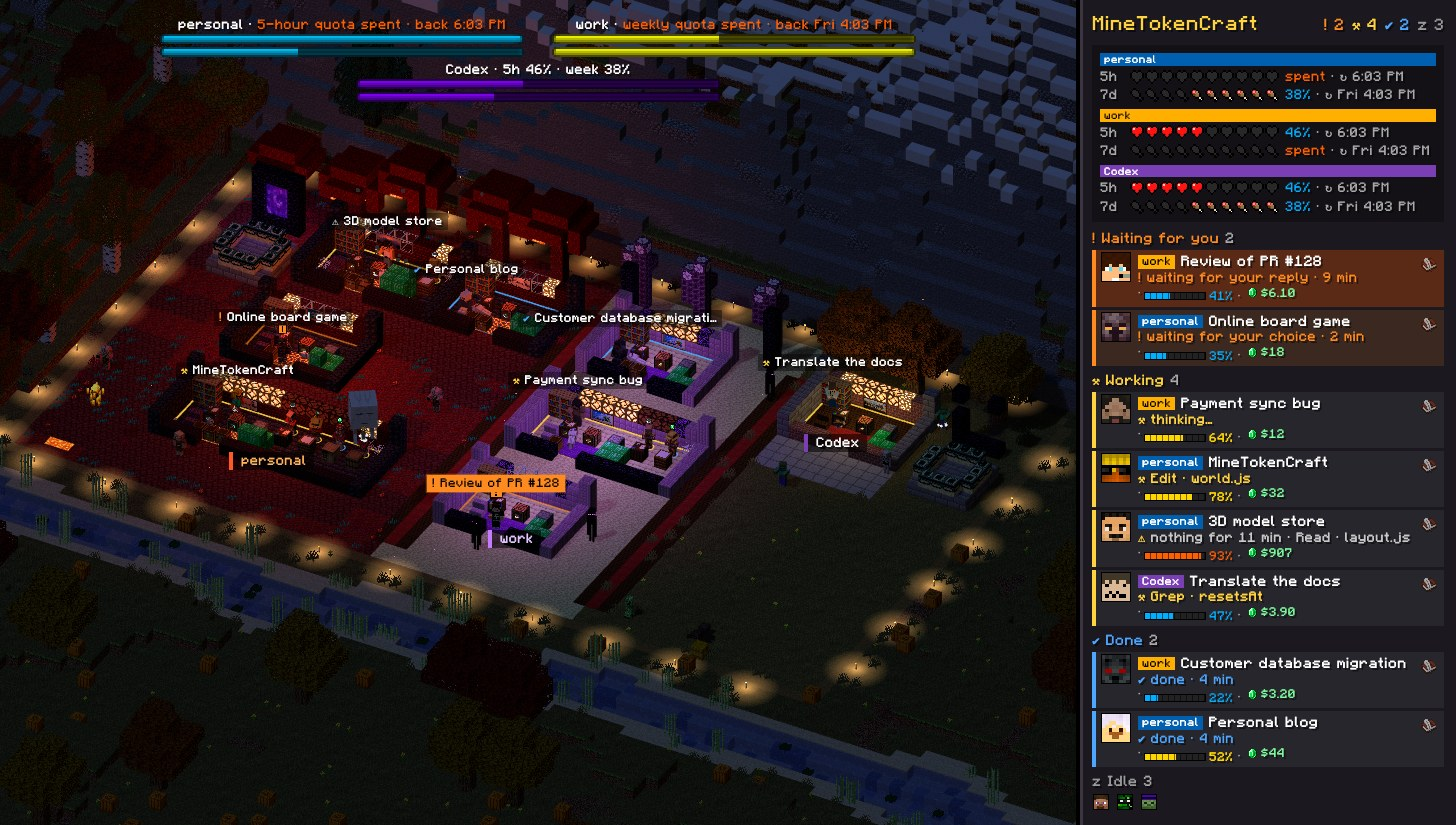
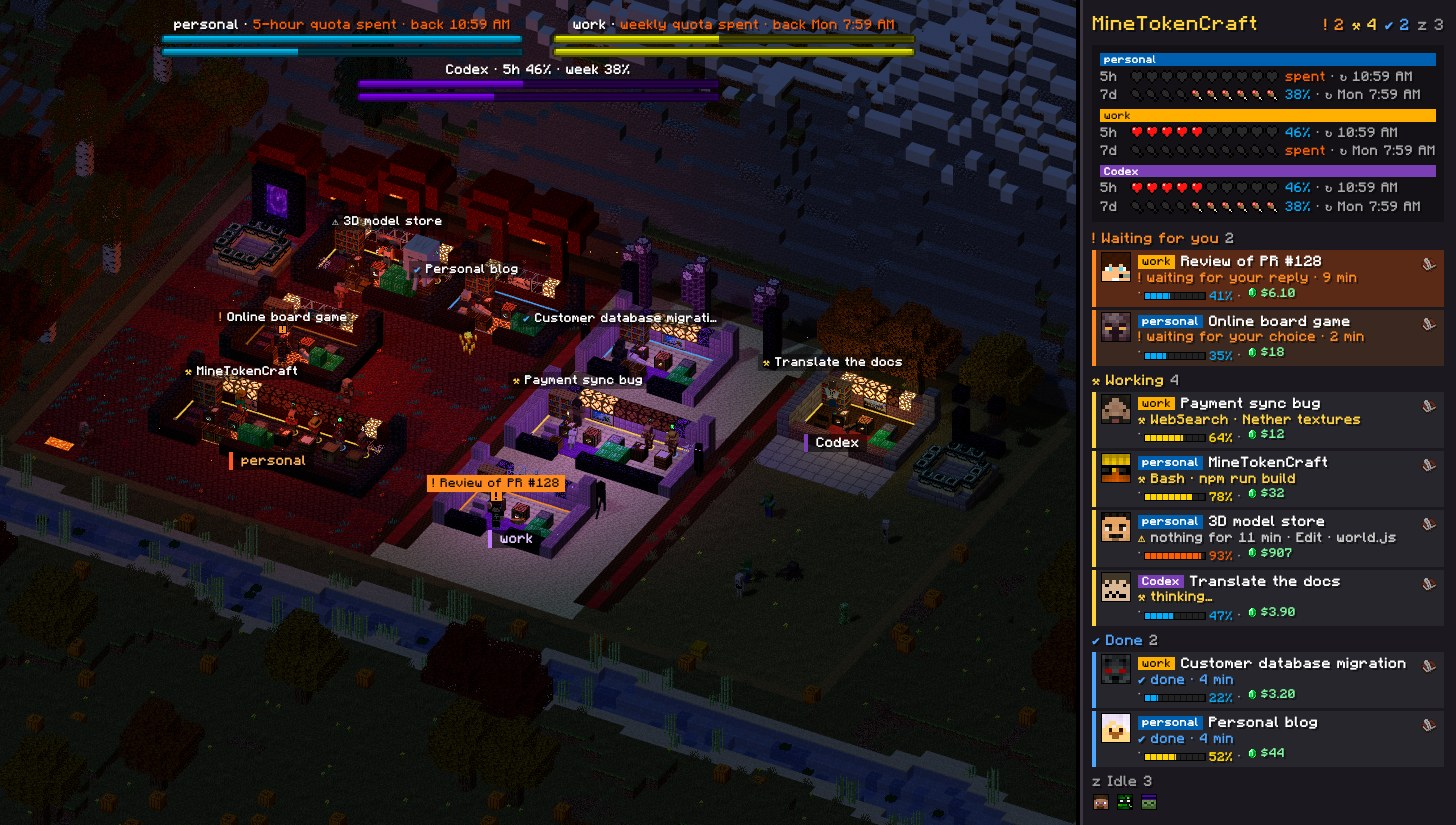
feat: remove the torches along the path and the falling rain
A rainy day keeps its grey sky, a storm its lightning, and the rainbow
still shows once the rain stops.

diff --git a/public/js/environment.js b/public/js/environment.js
@@ -1,6 +1,6 @@
 import * as THREE from 'three';
 import { windUniforms } from './wind.js';
-import { REDUCED_PARTICLES, reducedMotion } from './motion.js';
+import { reducedMotion } from './motion.js';
 import { TEXTURE_ROOT } from './textures.js';
 
 // Sky, light, weather and seasons: everything that changes with the real time and the weather outside.
@@ -28,8 +28,6 @@ const HAZES = {
 };
 // Seconds for the haze to follow a change of weather.
 const HAZE_EASE = 0.4;
-// Share of the raindrops that splash where they land (on the ground around the house).
-const SPLASH_SHARE = 0.15;
 // Rainbow after rain: half a ring standing just behind the house, facing the camera, red outside and violet inside.
 // Its size follows the house (radius over its width) and its feet sink into the ground. The view shows hardly any
 // sky, so it is layered: drawn over the landscape, under the house (World draws the house after it).
@@ -41,9 +39,7 @@ const RAINBOW_AFTER_MS = 20 * 60 * 1000;
 const OVERCAST = { clear: 1, cloudy: 0.8, rain: 0.65, storm: 0.5, snow: 0.75, fog: 0.7 };
 // Night stays readable: the moon gives enough light to tell rooms and creatures apart.
 const SUN = { dayIntensity: 0.9, moonIntensity: 0.38, sky: 0.58, nightSky: 0.28 };
-const RAIN_DROPS = 1600;
 const SNOW_FLAKES = 1100;
-const RAIN_SPEED = 16;
 const SNOW_SPEED = 1.3;
 const SKY_HEIGHT = 14;
 const LIGHTNING_MIN_S = 5;
@@ -92,20 +88,8 @@ export class Environment {
     this.stars = sky.querySelector('.sky__stars');
     this.sunDisc = sky.querySelector('.sky__sun');
     this.moonDisc = sky.querySelector('.sky__moon');
-    this.rain = this.makeRain();
     this.snow = this.makeSnow();
-    scene.add(this.rain, this.snow);
-  }
-
-  makeRain() {
-    const positions = new Float32Array(RAIN_DROPS * 6);
-    const geometry = new THREE.BufferGeometry();
-    geometry.setAttribute('position', new THREE.BufferAttribute(positions, 3));
-    const rain = new THREE.LineSegments(geometry, new THREE.LineBasicMaterial({ color: '#a9c4ff', transparent: true, opacity: 0.55 }));
-    rain.frustumCulled = false;
-    rain.visible = false;
-    rain.userData.seeded = false;
-    return rain;
+    scene.add(this.snow);
   }
 
   /**
@@ -168,40 +152,6 @@ export class Environment {
       Math.random() * SKY_HEIGHT,
       bounds.z0 + Math.random() * (bounds.z1 - bounds.z0 + 1),
     ];
-  }
-
-  updateRain(dt, bounds, wind) {
-    const positions = this.rain.geometry.attributes.position.array;
-    const slant = wind * 0.25;
-    for (let i = 0; i < RAIN_DROPS; i++) {
-      const at = i * 6;
-      if (!this.rain.userData.seeded || positions[at + 1] < 0) {
-        if (this.rain.userData.seeded) this.splash(positions[at], positions[at + 2], bounds);
-        const [x, y, z] = this.randomSpot(bounds);
-        positions[at] = x;
-        positions[at + 1] = this.rain.userData.seeded ? SKY_HEIGHT : y;
-        positions[at + 2] = z;
-      } else {
-        positions[at + 1] -= RAIN_SPEED * dt;
-        positions[at] += RAIN_SPEED * slant * dt;
-      }
-      // A drop = a 0.6-block streak, slanted by the wind.
-      positions[at + 3] = positions[at] - slant * 0.6;
-      positions[at + 4] = positions[at + 1] + 0.6;
-      positions[at + 5] = positions[at + 2];
-    }
-    this.rain.userData.seeded = true;
-    this.rain.geometry.attributes.position.needsUpdate = true;
-  }
-
-  /**
-   * A raindrop reaching the ground around the house splashes; further away, nobody would see it.
-   */
-  splash(x, z, bounds) {
-    const near = this.splashArea;
-    if (!this.particles || !near || x < near.x0 || x > near.x1 + 1 || z < near.z0 || z > near.z1 + 1) return;
-    if (Math.random() > SPLASH_SHARE * (reducedMotion() ? REDUCED_PARTICLES : 1)) return;
-    this.particles.emit('splash', { x, y: 0.08, z }, { spread: 0, velocity: [0, 0.6, 0], gravity: 4, life: 0.28, size: 0.22 });
   }
 
   updateSnow(dt, bounds, wind, time) {
@@ -337,13 +287,9 @@ export class Environment {
     this.updateRainbow(dt, conditions, layout, now);
     const direction = this.updateLights(conditions);
     this.updateLightning(dt, conditions);
-    const precipitation = conditions.condition === 'snow' ? 'snow' : ['rain', 'storm'].includes(conditions.condition) ? 'rain' : null;
-    this.rain.visible = precipitation === 'rain';
-    this.snow.visible = precipitation === 'snow';
+    // No rain falls: a rainy sky stays grey, only snow comes down.
+    this.snow.visible = conditions.condition === 'snow';
     if (layout) {
-      this.particles = particles;
-      this.splashArea = layout.bounds;
-      if (this.rain.visible) this.updateRain(dt, layout.weatherArea ?? layout.bounds, conditions.wind);
       if (this.snow.visible) this.updateSnow(dt, layout.weatherArea ?? layout.bounds, conditions.wind, now);
       this.updateFalling(dt, conditions, layout.bounds, particles);
     }

diff --git a/public/js/world.js b/public/js/world.js
@@ -146,14 +146,9 @@ const PLANTS = {
   fern: ['fern', GRASS_TINT],
   sugarCane: 'sugar_cane',
   berryBush: 'sweet_berry_bush_stage3',
-  torch: 'torch',
 };
 // Draw order of the house: after the landscape and the rainbow (environment.js), so it stays in front of them.
 const HOUSE_ORDER = 2;
-// Plants that give their own light: unlit, never hazed.
-const GLOWING_PLANTS = new Set(['torch']);
-// Pool of light around each torch, on the ground, as night falls.
-const TORCH_GLOW = { size: 5, color: '#ffb35c', height: 0.03, base: 0.25 };
 // Wind sway: grass and flowers move noticeably, foliage barely.
 const WIND_SETTINGS = { plant: { sway: 0.22, anchor: 0 }, leaves: { sway: 0.05, anchor: -0.5 } };
 const WINDY_PLANTS = new Set(['grass', 'grassAutumn', 'poppy', 'dandelion', 'cornflower', 'daisy', 'allium', 'azureBluet', 'blueOrchid', 'pinkTulip', 'crimsonRoots', 'netherSprouts', 'fern', 'berryBush']);
@@ -320,7 +315,6 @@ class Blocks {
     this.carpets = [];
     this.plants = [];
     this.water = [];
-    this.torches = [];
   }
 
   set(type, x, y, z) {
@@ -363,44 +357,13 @@ class Blocks {
         return instanced(geometry, materials, cells, ({ x, y, z }, m) => m.makeTranslation(x + 0.5, y + 1 / 32, z + 0.5), false);
       }),
       ...[...byKey(this.plants, 'type')].map(([type, cells]) => instanced(cross, material(PLANTS[type], {
-        cutout: true, wind: WINDY_PLANTS.has(type) ? 'plant' : null, glow: GLOWING_PLANTS.has(type), haze: this.haze && !GLOWING_PLANTS.has(type),
+        cutout: true, wind: WINDY_PLANTS.has(type) ? 'plant' : null, haze: this.haze,
       }), cells,
         ({ x, y, z, scale = 1 }, m) => m.makeScale(scale, scale, scale).setPosition(x + 0.5, y, z + 0.5), false)),
       ...(this.water.length ? [instanced(waterQuad, waterMaterial(this.frozen), this.water,
         ({ x, z }, m) => m.makeTranslation(x + 0.5, WATER.level, z + 0.5), false)] : []),
     ];
   }
-}
-
-let glowTexture = null;
-
-/**
- * Warm pools of light on the ground around the torches: one flat quad each, added to what is below, in a single
- * draw call. Cheaper than real lights, which would cost on every pixel of the screen.
- */
-function torchGlow(spots) {
-  if (!glowTexture) {
-    const canvas = document.createElement('canvas');
-    canvas.width = canvas.height = 64;
-    const context = canvas.getContext('2d');
-    const gradient = context.createRadialGradient(32, 32, 0, 32, 32, 32);
-    gradient.addColorStop(0, 'rgba(255, 255, 255, 0.9)');
-    gradient.addColorStop(0.4, 'rgba(255, 255, 255, 0.35)');
-    gradient.addColorStop(1, 'rgba(255, 255, 255, 0)');
-    context.fillStyle = gradient;
-    context.fillRect(0, 0, 64, 64);
-    glowTexture = new THREE.CanvasTexture(canvas);
-  }
-  const material = new THREE.MeshBasicMaterial({
-    map: glowTexture, color: TORCH_GLOW.color, transparent: true, depthWrite: false, blending: THREE.AdditiveBlending, opacity: 0,
-  });
-  const quad = new THREE.PlaneGeometry(TORCH_GLOW.size, TORCH_GLOW.size).rotateX(-Math.PI / 2);
-  const mesh = new THREE.InstancedMesh(quad, material, spots.length);
-  const matrix = new THREE.Matrix4();
-  spots.forEach(({ x, y, z }, index) => mesh.setMatrixAt(index, matrix.makeTranslation(x, y + TORCH_GLOW.height, z)));
-  mesh.visible = false;
-  mesh.renderOrder = 1;
-  return mesh;
 }
 
 // Water texture, whose frames World.animate scrolls through.
@@ -719,9 +682,6 @@ export class World {
     this.signature = null;
     this.rooms = new Map();
     this.portals = new Map();
-    // Torches along the path, for their flames at night.
-    this.torches = [];
-    this.torchGlow = null;
   }
 
   build(layout, season = 'summer', scenery = null) {
@@ -745,14 +705,10 @@ export class World {
     const house = [...blocks.meshes(), extras];
     for (const object of house) object.traverse((child) => (child.renderOrder = HOUSE_ORDER));
     this.group.add(...house);
-    this.torches = [];
-    this.torchGlow = null;
     if (scenery) {
       const land = new Blocks({ castShadow: false, frozen: season === 'winter', haze: true });
       buildTerrain(land, { flat: layout.bounds, ...scenery }, season, SEASON_GROUNDS[season]);
       this.group.add(...land.meshes());
-      this.torches = land.torches;
-      if (land.torches.length) this.group.add(this.torchGlow = torchGlow(land.torches));
     }
     return true;
   }
@@ -827,10 +783,6 @@ export class World {
    */
   setGloom(gloom) {
     this.gloom = gloom;
-    if (this.torchGlow) {
-      this.torchGlow.visible = gloom >= LIGHTS_ON_GLOOM;
-      this.torchGlow.material.opacity = Math.min(1, TORCH_GLOW.base + gloom);
-    }
     this.group.traverse((object) => {
       if (object.isPointLight && object.userData.baseIntensity) this.applyLight(object);
     });

diff --git a/public/js/main.js b/public/js/main.js
@@ -97,8 +97,6 @@ const PET_SPOTS = {
 };
 // A sleeping cat breathes out a "z" every few seconds.
 const PET_ZZZ_S = 2.5;
-// Flames rising from the torches along the path at night, a few a second for all of them.
-const TORCH_FLAMES_PER_S = 3;
 // Ambiance of a Nether zone (rising embers) or End zone (floating portal particles), per second.
 const ZONE_PARTICLES = {
   nether: { type: 'ember', rate: 10, velocity: [0, 0.9, 0], spread: 0.3, life: 2.6, size: 0.12 },
@@ -551,7 +549,7 @@ function aimSun(direction) {
 const LOWEST_GROUND = -3;
 const COVER_MARGIN = 3;
 const CEILING_MARGIN = 3;
-// Rain and snow also fall around the house.
+// Snow also falls around the house.
 const WEATHER_MARGIN = 14;
 
 /**
@@ -710,17 +708,6 @@ function updatePet(record, dt) {
   particles.emit('zzz', { x, y: 0.6, z }, { spread: 0.1, velocity: [0.1, 0.35, 0], life: 1.8, size: 0.14 });
 }
 
-let torchTimer = 0;
-
-function emitTorchFlames(dt) {
-  if (lastGloom < 0.12 || !world.torches.length) return;
-  torchTimer -= dt;
-  if (torchTimer > 0) return;
-  torchTimer = 1 / (TORCH_FLAMES_PER_S * (reducedMotion() ? REDUCED_PARTICLES : 1));
-  const torch = world.torches[Math.floor(Math.random() * world.torches.length)];
-  particles.emit('flame', { x: torch.x, y: torch.y + 0.68, z: torch.z }, { spread: 0.04, velocity: [0, 0.35, 0], life: 0.45, size: 0.1 });
-}
-
 const timer = new THREE.Timer();
 const environment = new Environment(scene, {
   sky: document.getElementById('sky'),
@@ -799,7 +786,6 @@ function renderFrame(time) {
     world.animate(now);
     expireDepartures(now);
     emitZoneParticles(dt);
-    emitTorchFlames(dt);
   });
   timed('environment', () => updateEnvironment(dt));
   timed('particles', () => particles.update(dt));

diff --git a/public/js/terrain.js b/public/js/terrain.js
@@ -31,9 +31,8 @@ const RIVER = {
   deep: -2,
   shallow: -1,
 };
-// The path going around the property, just outside the garden, lined with a torch every few blocks.
+// The path going around the property, just outside the garden.
 const PATH_WIDTH = 1;
-const TORCH_EVERY = 6;
 // Trees on a 5-block grid, at most one per cell, randomly offset within its cell.
 const TREE_GRID = 5;
 // In front and to the right, trees stay far away: closer, they would overlap the house on screen.
@@ -251,12 +250,6 @@ export function buildTerrain(blocks, { flat, cover, ceiling }, season, flora) {
         continue;
       }
       if (steep || surface === 'path') continue;
-      // Torches along the outer edge of the path, on its straight sides.
-      if (top === 0 && !bank && Math.abs(awayFromFlat(x, z) - PATH_WIDTH - 1) < 0.01 && (((x + z) % TORCH_EVERY) + TORCH_EVERY) % TORCH_EVERY === 0) {
-        blocks.plants.push({ type: 'torch', x, y: top, z });
-        blocks.torches.push({ x: x + 0.5, y: top, z: z + 0.5 });
-        continue;
-      }
       // Sugar cane at the water's edge.
       if (bank && !frozen && nextToWater(x, z) && noise(x, z, 67) < 0.3) {
         const height = 1 + Math.floor(noise(x, z, 68) * 3);

diff --git a/public/js/particles.js b/public/js/particles.js
@@ -23,8 +23,6 @@ const SHAPES = {
   damage: { color: '#6b0a0a', pixels: ['........', '.##.##..', '#######.', '#######.', '.#####..', '..###...', '...#....', '........'] },
   crit: { color: '#e8e8e8', pixels: ['...#....', '...#....', '...#....', '###.###.', '...#....', '...#....', '...#....', '........'] },
   xp: { color: '#b6f23a', pixels: ['........', '..###...', '.#####..', '.#####..', '.#####..', '..###...', '........', '........'] },
-  // A raindrop hitting the ground.
-  splash: { color: '#c3d6ff', pixels: ['........', '........', '........', '...#....', '.#...#..', '#..#..#.', '.##.##..', '........'] },
   // Enchanting table runes, flying from the books to the reader.
   glyph: { color: '#d9c8ff', pixels: ['.#####..', '.#...#..', '.#.#.#..', '...#....', '.#.#.#..', '.#...#..', '.#####..', '........'] },
 };

diff --git a/README.fr.md b/README.fr.md
@@ -20,7 +20,7 @@ Qui travaille, qui t'attend, qui a fini, à quel point chaque contexte est rempl
 
 [English](README.md) · Français
 
-<img src="docs/demo.gif" alt="MineTokenCraft en action : des sessions au travail, l'infobulle d'une session qui attend, des comptes sans quota qui partent dans le Nether et l'End, une nuit de pluie, le mode simple" width="100%">
+<img src="docs/demo.gif" alt="MineTokenCraft en action : des sessions au travail, l'infobulle d'une session qui attend, des comptes sans quota qui partent dans le Nether et l'End, une nuit, un arc-en-ciel, le mode simple" width="100%">
 
 </div>
 
@@ -53,7 +53,7 @@ Qui travaille, qui t'attend, qui a fini, à quel point chaque contexte est rempl
 - 📊 **Les quotas de chaque compte.** L'utilisation sur 5 heures et sur la semaine en barres de boss Minecraft en haut de l'écran, avec une prévision de l'heure à laquelle le quota 5 h sera épuisé à ce rythme. Un compte qui atteint sa limite de 5 h envoie toute son aile dans le **Nether** ; sa limite de la semaine, dans l'**End**.
 - 🧠 **Contexte, tâches et coût par session.** Une barre d'expérience pour la fenêtre de contexte, des toiles d'araignée qui envahissent la pièce à mesure qu'elle se remplit, des lampes de redstone qui s'allument avec la liste de tâches, des blocs d'émeraude qui s'empilent avec le coût. Tout est lu dans les transcripts : rien à installer.
 - 📈 **La consommation du jour et de la semaine.** Le coût ou les tokens heure par heure aujourd'hui, jour par jour sur 7 jours, par compte, comparés à une journée habituelle.
-- 🌦 **Un monde vivant.** La vraie heure, la vraie météo locale (pluie qui éclabousse le sol, orages, neige, brouillard qui monte sur les montagnes), un arc-en-ciel quand la pluie s'arrête, des torches qui éclairent le chemin la nuit, les saisons (prairies au printemps, feuilles d'automne, neige l'hiver), le vent dans l'herbe, des animaux le jour, des monstres la nuit : et tu peux les combattre à l'épée en diamant.
+- 🌦 **Un monde vivant.** La vraie heure, la vraie météo locale (ciel gris, orages, neige, brouillard qui monte sur les montagnes), un arc-en-ciel quand la pluie s'arrête, les saisons (prairies au printemps, feuilles d'automne, neige l'hiver), le vent dans l'herbe, des animaux le jour, des monstres la nuit : et tu peux les combattre à l'épée en diamant.
 - 🏷 **Discret.** Juste un nametag au-dessus de chaque joueur ; survole une pièce pour une infobulle façon Minecraft avec les détails.
 - ♿ **Calme quand on le demande.** Avec *réduire les animations* activé dans le système : pas d'éclairs, pas de clignotements, eau et herbe immobiles, moins de particules.
 - 🖱 **Clique sur une pièce pour aller à son terminal** (Terminal, iTerm, IDE JetBrains sur macOS), ou ouvre l'historique de la session.

diff --git a/README.md b/README.md
@@ -20,7 +20,7 @@ Who is working, who is waiting for you, who is done, how full each context is, w
 
 English · [Français](README.fr.md)
 
-<img src="docs/demo.gif" alt="MineTokenCraft in action: sessions at work, the tooltip of a waiting session, accounts out of quota moving to the Nether and the End, a rainy night, simple mode" width="100%">
+<img src="docs/demo.gif" alt="MineTokenCraft in action: sessions at work, the tooltip of a waiting session, accounts out of quota moving to the Nether and the End, a night, a rainbow, simple mode" width="100%">
 
 </div>
 
@@ -53,7 +53,7 @@ English · [Français](README.fr.md)
 - 📊 **Quotas for every account.** 5-hour and weekly usage as Minecraft boss bars at the top of the screen, with a forecast of when the 5-hour quota runs out at this pace. An account that hits its 5-hour limit moves its whole wing to the **Nether**; its weekly limit, to the **End**.
 - 🧠 **Context, tasks and cost per session.** An XP bar for the context window, cobwebs creeping into the room as it fills up, redstone lamps lighting up as the task list advances, emerald blocks piling up with the cost. All read from the transcripts: no setup needed.
 - 📈 **Usage over the day and the week.** Cost or tokens hour by hour today, day by day over 7 days, per account, compared with a usual day.
-- 🌦 **A living world.** Real time of day, real local weather (rain splashing on the ground, storms, snow, fog drifting over the mountains), a rainbow once the rain stops, torches lighting the path at night, seasons (spring meadows, autumn leaves, winter snow), wind in the grass, animals by day, monsters at night: and you can fight them with a diamond sword.
+- 🌦 **A living world.** Real time of day, real local weather (grey skies, storms, snow, fog drifting over the mountains), a rainbow once the rain stops, seasons (spring meadows, autumn leaves, winter snow), wind in the grass, animals by day, monsters at night: and you can fight them with a diamond sword.
 - 🏷 **Out of the way.** Just a nametag over each player; hover a room for a Minecraft-style tooltip with the details.
 - ♿ **Calm when asked.** With *reduce motion* turned on in the system, no lightning flashes, no blinking, still water and grass, fewer particles.
 - 🖱 **Click a room to jump to its terminal** (Terminal, iTerm, JetBrains IDEs on macOS), or open the session history.

diff --git a/CHANGELOG.md b/CHANGELOG.md
@@ -4,6 +4,11 @@ All notable changes to MineTokenCraft are listed here. The format follows [Keep 
 
 ## [Unreleased]
 
+### Removed
+
+- The torches along the path around the village.
+- Falling rain: a rainy day keeps its grey sky, a storm its lightning, and the rainbow still shows once the rain stops.
+
 ## [1.2.1] - 2026-10-21
 
 ### Changed
